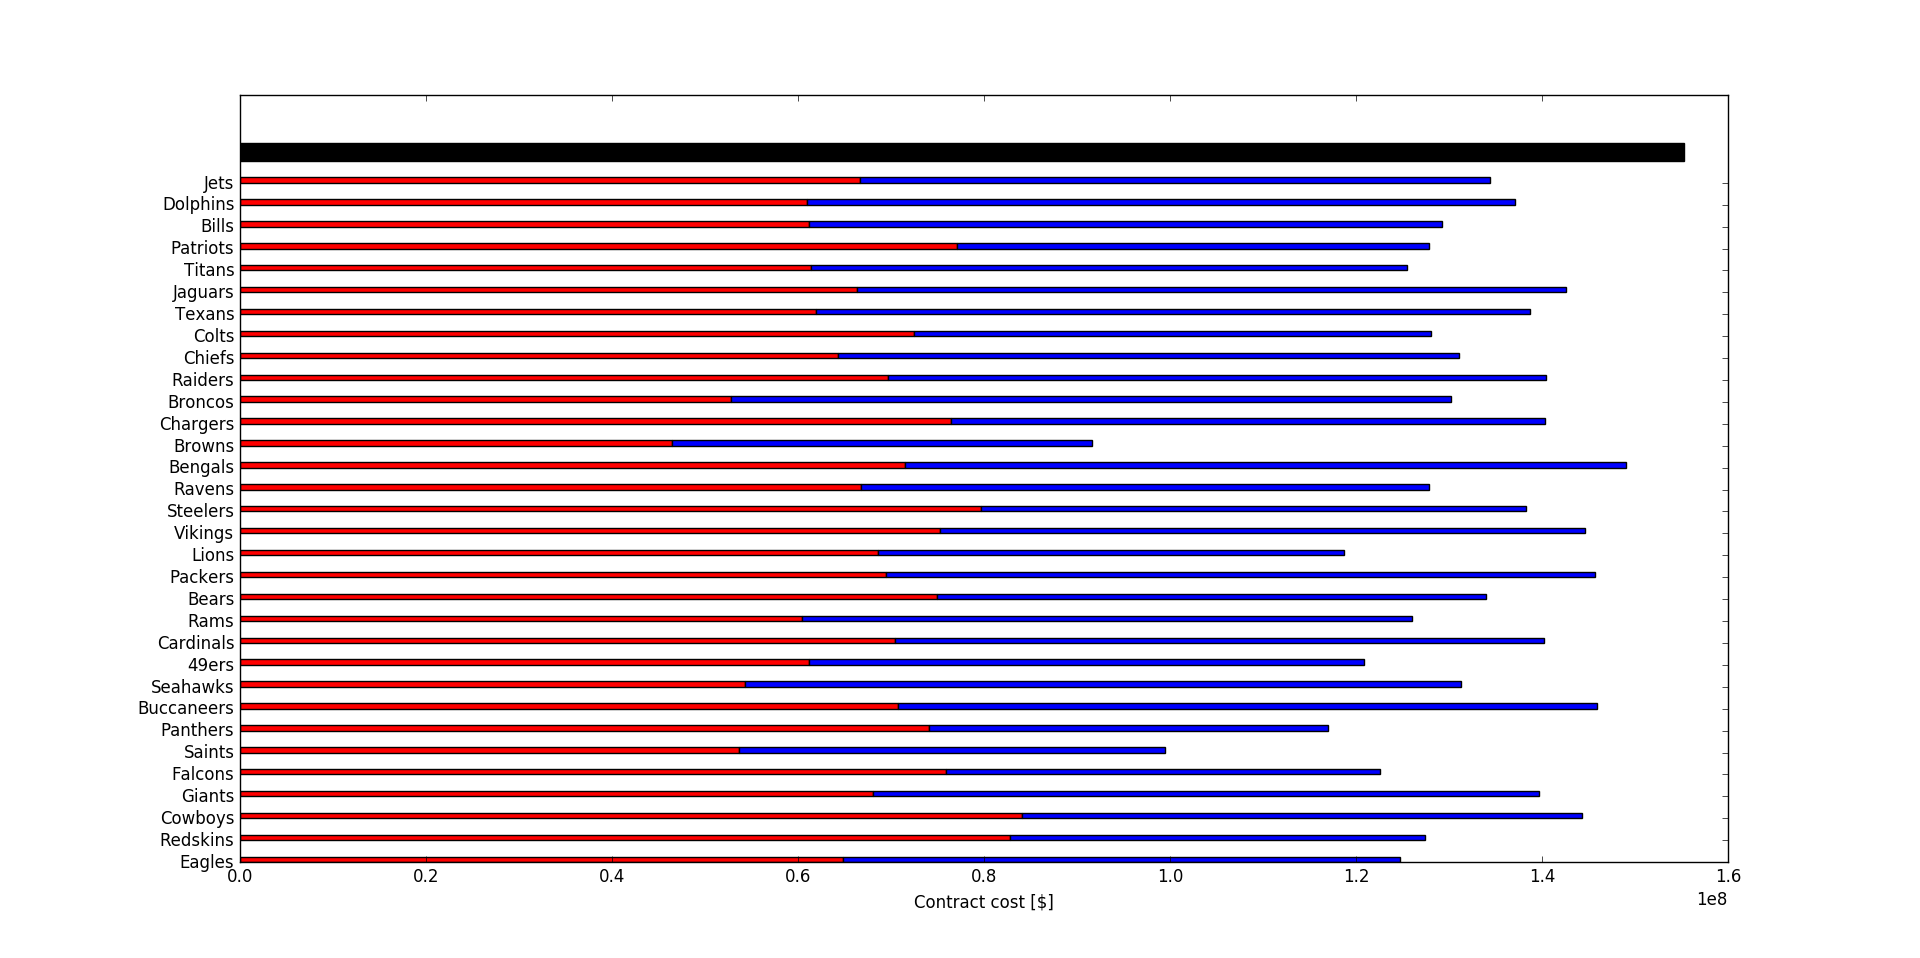
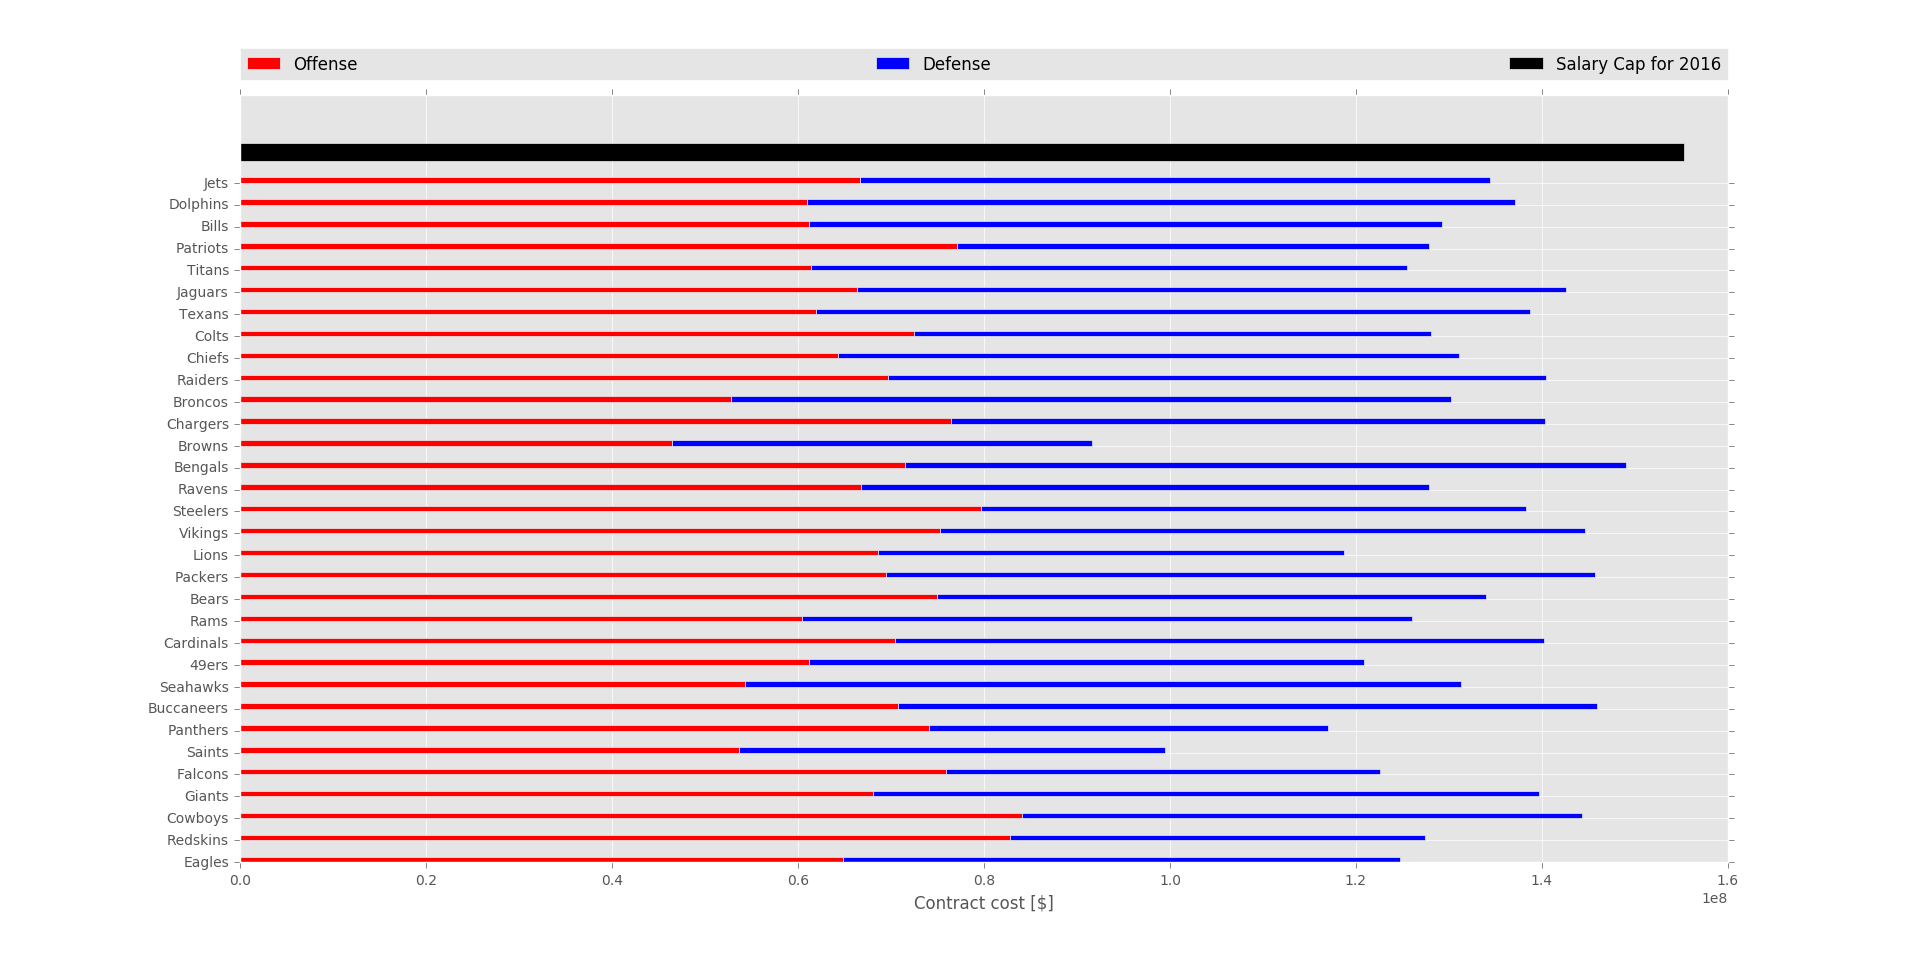
updated nfl graphs with nicer style and cleaned up the explanation some

diff --git a/_posts/projects/2017-5-16-nfl-cap-efficiency.md b/_posts/projects/2017-5-16-nfl-cap-efficiency.md
@@ -8,7 +8,7 @@ The goal of this project was to understand how well each team's allocated resour
 
 ## Evaluations
 
-For this initial assessment, the analysis will be broken down into 2 tiers. First each team's offensive and defensive performance will be compared to their relative cap spending in those areas. Second, we will break this down further, taking rankings for quarterback, running backs, wide receivers and offensive lines for the offense, and similarly evaluating the secondaries and the defensive fronts relative to their cap costs. For the position evaluation we will compare the top 5 of each group, showing methodology and sources to allow any interested party to recreate the analysis and perform it on an overlooked team or in another season.
+For this initial assessment, we will look at how well each team's offense and defense performed using objective metrics like yards and points, scored for the offense and given up for the defense. Each team's offensive and defensive performance will be compared to all other. Then we will normalize each team's performance and cap spending to the mean. This ratio (yards or points divided by offensive cap spending and the inverse for the defense) should allow us to see how each team performs compared to unity being the league average.
 
 #### Overall Cap Breakdown
 
@@ -43,15 +43,6 @@ This does show that the two metrics we chose for offensive efficiency do not nec
 
 We can now see that in terms of point-scoring the Saints are by far the most potent offense. Followed by the Falcons, Seahawks, Bills and Broncos. When looking at yardage the Saint still lead the pack, however the Browns are the second best in that category, surprising considering their 1-15 final record. 
 
-#### Quarterbacks
-
-#### Wide Receivers
-
-#### Running Backs
- 
-#### Offensive Lines
-
-
 ### Defense
 Similar to the offensive statistics, we will use yards and points as the metric, however in this case we will look at the point and yards gained *against* the teams, so lower is better. In order for this to scale properly, we will divide the mean by the team's points and yardage (so a different ratio, where higher is better). So we can again see the correlation with cap expenditure.
 
@@ -69,22 +60,22 @@ Now looking at the defensive expenditures per team's performance
 
 Again the Patriots seem to rule the roost. With the Lions, Redskins and Panthers showing good performance to compensation figures on both metrics. 
 
-#### Secondaries
-
-#### Defensive Fronts
-
 ## Evaluation of Results
 
-All data was pulled from [Overthecap](http://www.overthecap.com), so the validity of these results start and finish with the veracity of this site's reporting. The overall cap numbers were cross-checked with the [Spotrac website](http://www.spotrac.com/nfl/cap/2016/) to ensure nothing too gross was happening. Any addition that doesn't make sense in terms of adding up position groups vs total can probably be attributed to the cost of special teamers. 
+All cap data was pulled from [Overthecap](http://www.overthecap.com), so the validity of these results start and finish with the veracity of this site's reporting. The overall cap numbers were cross-checked with the [Spotrac website](http://www.spotrac.com/nfl/cap/2016/) to ensure nothing too gross was happening. Any addition that doesn't make sense in terms of adding up position groups vs total can probably be attributed to the cost of special teamers. All performance data was taken from the NFL's own statistics tracking [here.](http://www.nfl.com/stats/team)
 
 Due to the way promising and high-performing rookies are relatively under-paid compared to veterans, they can have a disproportionate impact on a team's ranking. However, since each team has the ability to draft rookies and develop them, as well as the certainty of 'proven' veterans vs the risk of 'unproven' rookies counter balances this disproportionate impact.
 
 Teams are also in various stages of the rebuilding/reloading/contending cycle, which also impacts their cap space and positional rankings. Prime examples of rebuilding are the Browns and 49ers, who after years of poor performance are clearing their rosters of costly veterans and stocking up young (and cheap) players, in the hope that they can develop these players and acquire the spots that are missing in free agency. Similarly looking at the contenders in the last Super Bowl on these rankings show it to be a matchup of not just the highest scoring offense vs the lowest scoring defense, but also two of the teams who effectively manage their cap resources.
 
-However, it is also interesting to see that efficient use of cap space does not always translate to on-field success. Two cases to look at here are the Saints and the Redskins. The Saints were in the bottom of giving up points, despite being fourth in yard efficiency per cap room. Indicating that if you put very little cap resources into a defense, you will give up a lot of points. The Redskins also scored high on the defensive efficacy per cap resource, despite just below average in absolute defensive statistics. On offense both teams performed at the top in terms of yardage and above average in points, but when looking at their financial efficacy, they are mirror images, with the Saints being above all others by a clear margin, but the Redskins solidly in the bottom half.
+However, it is also interesting to see that efficient use of cap space does not always translate to on-field success. Two cases to look at here are the Saints and the Redskins. The Saints were in the bottom of giving up points, despite being fourth in yard efficiency per cap room. Indicating that if you put very little cap resources into a defense, you will give up a lot of points. The Redskins also scored high on the defensive efficacy per cap resource, despite just below average in absolute defensive statistics. On offense both teams performed at the top in terms of yardage and above average in points, but when looking at their financial efficacy, they are mirror images, with the Saints being above all others by a clear margin, but the Redskins solidly in the bottom half. Another interesting tidbit is how very average the Titans are, hovering around unity in all categories. Where the Packers, Dolphins and Buccaneers are below average defenses and seem to be overpaying for them.
 
-Another interesting tidbit is how very average the Titans are, hovering around unity in all categories. Where the Packers, Dolphins and Buccaneers are below average defenses and seem to be overpaying for them.
+The metric used to evaluate teams are far from statistically rigorous. It could certainly be argued that correlations exist that aren't considered here (i.e. a poor offense could leave a defense in relatively poor starting field positions and thus affect their performance). This is something that could be explored further.
 
 ## Future Work
 
-Besides the 'obvious' ability to extend the figures and data into the past to see trends of teams, of particular interest in evaluating the teams' GMs would be the talent identification, acquisition and retention figures. Tracking a GM's draft history and free agent signings would enable the exposition of how often they 'hit' on draft picks as well as signing undrafted free agents and veterans in free agency. Similarly the efficacy of the coaching staff in developing players could be tracked through the amount of players still in the league by the time their initial contracts are up. There is a simbiosis/mutual responsibility here between coaching and GM. Similarly a team's injury history could also be looked at, seeing above average numbers of injuries to players year after year could indicate a problem with the training staff or the way they practice. 
+Besides the 'obvious' ability to extend the figures and data into the past to see trends of teams, of particular interest in evaluating the teams' GMs would be the talent identification, acquisition and retention figures. Tracking a GM's draft history and free agent signings would enable the exposition of how often they 'hit' on draft picks as well as signing undrafted free agents and veterans in free agency. Similarly the efficacy of the coaching staff in developing players could be tracked through the amount of players still in the league by the time their initial contracts are up. There is a simbiosis/mutual responsibility here between coaching and GM. 
+
+Similarly a team's injury history could also be looked at, seeing above average numbers of injuries to players year after year could indicate a problem with the training staff or the way they practice. Also looking at different player group metrics could be of interest. For example seeing how well runningback play is correlated to investment in the runningback position, but also the offensive line. Similarly wide receiver and quarterback could be correlated.  
+
+Finally, when looking at post season rankings, it would be possible to use some regression techniques to see if there are certain correlations between over/under spending for certain positions relative to postseason success. Perhaps other trends could be ascertained as well if more data is added like ratio of pass to run plays, personnel formations, defensive formations etc.

diff --git a/about.md b/about.md
@@ -14,7 +14,7 @@ My name is Phil. I'm a robotics and software engineer. I've spent the last year 
 
 ### Background Information
 
-I've had the priviledge of growing up in numerous countries around the world (the United States, South Korea, Belgium, and Cuba just to name a few), this has served as a catalyst for my side interests in international relations, history and learning. Besides my work at DLR and research at the Delft Biorobotics Lab at the TU Delft, I've also spent time as a developer for a big data consultancy, a middle/high school teacher and a lacrosse coach, and national lacrosse team player. 
+I've had the privilege of growing up in numerous countries around the world (the United States, South Korea, Belgium, and Cuba just to name a few), this has served as a catalyst for my side interests in international relations, history and learning. Besides my work at DLR and research at the Delft Biorobotics Lab at the TU Delft, I've also spent time as a developer for a big data consultancy, a middle/high school teacher and a lacrosse coach, and national lacrosse team player. 
 
 I'm passionate about learning and passing that on to others. Hopefully the items under the projects tab here give you a glimpse of my diverse background and interests. My hobbies include:
 
